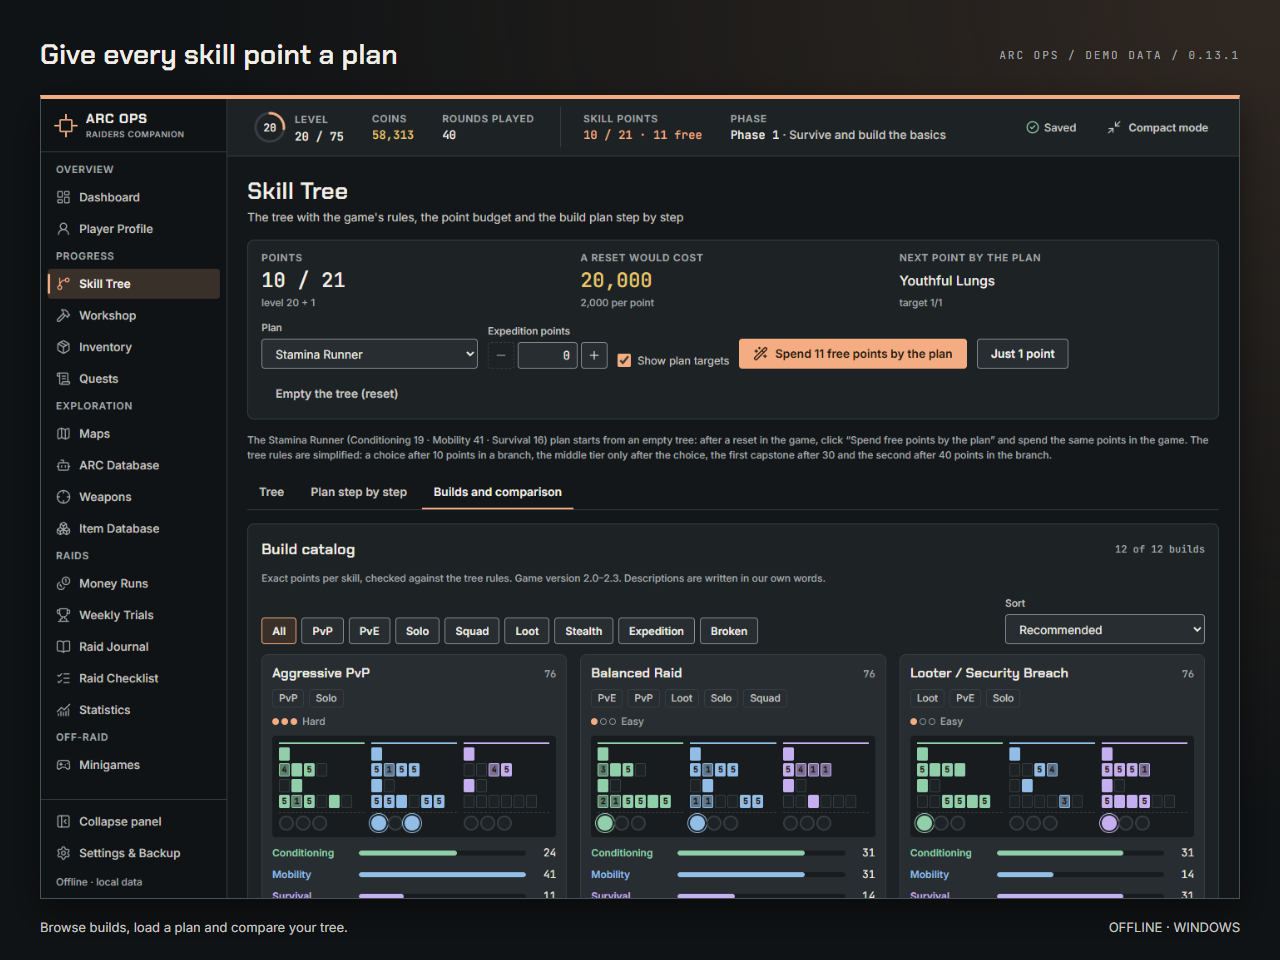
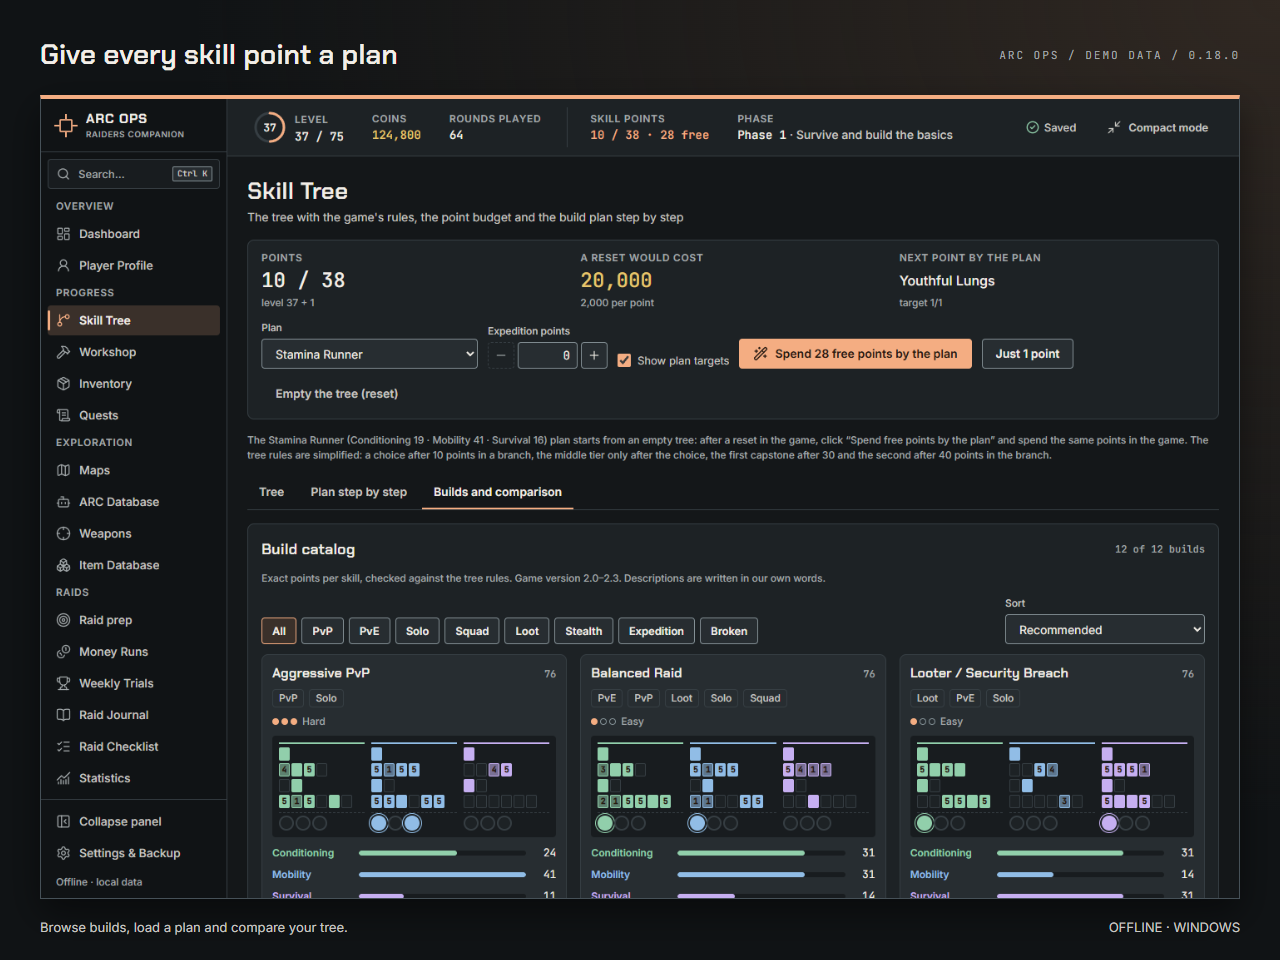
GitHub presentation: screenshots and README for raid prep, map, advisor, search and item card
Fictional demo profile values throughout; the map uses fictional project terrain.

diff --git a/README.md b/README.md
@@ -24,7 +24,7 @@ All views below use **demo data** from the browser build. The desktop app provid
 
 <table>
 <tr>
-<td width="50%"><img src="docs/assets/github/feature-1.png" alt="Plan: stash, workshop and shopping lists"><br><b>Your operations desk</b><br>Profile, priorities, raid records, workshop upgrades and material shopping lists.<br><a href="docs/assets/github/dashboard@2x.png"><img src="docs/assets/github/dashboard.png" alt="Demo dashboard with level 20 profile and upgrade priorities"></a></td>
+<td width="50%"><img src="docs/assets/github/feature-1.png" alt="Plan: stash, workshop and shopping lists"><br><b>Your operations desk</b><br>Profile, priorities, raid records, workshop upgrades and material shopping lists.<br><a href="docs/assets/github/dashboard@2x.png"><img src="docs/assets/github/dashboard.png" alt="Demo dashboard with fictional level 37 profile and What next advisor"></a></td>
 <td width="50%"><img src="docs/assets/github/feature-5.png" alt="Keep close: compact window and optional Ops buddy"><br><b>A smaller window</b><br>Pin quests, see have/need counts and jump to raid logging or stash cleanup.<br><a href="docs/assets/github/compact@2x.png"><img src="docs/assets/github/compact.png" alt="Demo compact window with three pinned quests and Gear Bench shopping list"></a></td>
 </tr>
 <tr>
@@ -39,17 +39,37 @@ All views below use **demo data** from the browser build. The desktop app provid
 
 ### What next?
 
-The Dashboard's **What next?** card ranks your next best actions from your own data, Blitz-style: an upgrade you can build now, a raid to evaluate, a pinned quest ready to hand in, free skill points, unfinished Weekly Trials, a full stash, an old backup or a goal that is due. Each tip says why, opens the right module in one click and can be hidden until its condition changes or snoozed for a day. The top tip also shows in the compact window and the field console, and Ops says it in your chosen personality while you use them, never over the game.
+The Dashboard's **What next?** card ranks your next best actions from your own data: an upgrade you can build now, a raid to evaluate, a pinned quest ready to hand in, free skill points, unfinished Weekly Trials, a full stash, an old backup or a goal that is due. Each tip says why, opens the right module in one click and can be hidden until its condition changes or snoozed for a day. The top tip also shows in the compact window and the field console, and Ops says it in your chosen personality while you use them, never over the game.
+
+| Active plan: goals, materials and map reasons | Interactive map: points and plan highlights |
+|---|---|
+| [![Active plan: goals, materials and map reasons](docs/assets/github/raid-prep.png)](docs/assets/github/raid-prep@2x.png) | [![Interactive map: points and plan highlights](docs/assets/github/interactive-map.png)](docs/assets/github/interactive-map@2x.png) |
+
+The terrain shown here is fictional project artwork, standing in for a player-provided screenshot. It is not a game or community map. You choose the map and loadout.
+
+| Raid tab: finds and item advice | After the raid: found, missing and upgrade ready |
+|---|---|
+| [![Raid tab: finds and item advice](docs/assets/github/overlay-raid.png)](docs/assets/github/overlay-raid@2x.png) | [![After the raid: found, missing and upgrade ready](docs/assets/github/post-raid.png)](docs/assets/github/post-raid@2x.png) |
+
+Plan history stays with entries in the Raid Journal. Statistics show which maps help with your goals; fewer than three planned raids are labelled “little data”.
 
 ### Search everywhere and “Why do I need this?”
 
 Press **Ctrl+K** (or use the sidebar search) to find any item, quest, station, skill, build, map, module, setting or tip, in Czech or English, accents and small typos forgiven. An item opens its card: rarity, value, weight and stack, your stock, where it is needed (quests, stations, projects, your goals, the active raid plan) with what is still missing, what it recycles into and what recycles into it, where to look and which of your map points match, and the keep / recycle / sell verdict with its reason. Item names across the app open the same card, in the main window and in the field console.
+
+| Ctrl+K: grouped search results | Item card: why you need it |
+|---|---|
+| [![Ctrl+K: grouped search results](docs/assets/github/search.png)](docs/assets/github/search@2x.png) | [![Item card: why you need it](docs/assets/github/item-card.png)](docs/assets/github/item-card@2x.png) |
+
+Ctrl+K works while the app or overlay has focus. It is a local window shortcut. The card also shows matching points on your own map; missing catalogue facts stay unknown.
 
 ### Meet Bedňák, callsign Ops
 
 An optional, draggable desktop buddy with level-based outfits, paints, animations and three personalities. Click Ops to open the field console: profile, quests, inventory, workshop, skills, shopping, capture review and the active raid plan. The **App** button opens any full module (skill tree, recipes, item database, maps, journal, statistics, minigames…) in a larger panel over the game; settings and backups stay in the main window. Buddy features start **off** and can be enabled in Settings.
 
 [![Demo field console with Ops and local profile data](docs/assets/github/overlay.png)](docs/assets/github/overlay@2x.png)
+
+[![Full Quests module open inside the overlay](docs/assets/github/overlay-app.png)](docs/assets/github/overlay-app@2x.png)
 
 **Raid prep and your own map.** Pick goals (quests, the next station level, a project or money), get one list of what is still missing with the loot area from the item catalogue, a recommended map with its reasons, and the plan in the console's Raid tab with keep/sell/recycle lookups. The interactive map uses a screenshot of the in-game map that you add yourself; no game maps are bundled. Your points and plan highlights sit on top. After the raid, the plan is compared with what you found (from a confirmed FINDINGS capture or your stock change), shows what is still missing and which upgrades are ready, suggests the next raid and can be saved to the raid journal; statistics then show which maps help with your goals.
 
@@ -67,10 +87,12 @@ For an upgrade, use the newer installer over the existing installation; local da
 ## Your data stays with you
 
 - Works offline with no account login, telemetry or cloud upload. Nothing is sent to a server by the app; external source links open only when you choose them.
-- Screenshots are processed locally. Native hotkey capture stays in memory and is discarded after reading; imported screenshot images are not saved. Map screenshots you add yourself are stored only on this device and go into a backup only if you choose. Learned numeric icon fingerprints and confirmed values may be stored locally.
+- Inventory, loot and progression screenshots are processed locally. Native hotkey capture stays in memory and is discarded after reading; imported screenshot images are not saved. Map screenshots you add yourself are stored only on this device and go into a backup only if you choose. Learned numeric icon fingerprints and confirmed values may be stored locally.
 - No game-memory access, code injection, game-file modification or automated game input. Optional “open with game” checks process names and window visibility/foreground status; it does not open the game process for memory access.
 - Recognition proposes changes; you review and confirm them. Unreadable fields stay unknown. State snapshots and JSON export/restore help you recover from mistakes.
 - Stash advice never sells, recycles or deletes anything in the game.
+
+Security hardening in 0.16.1 added per-window permissions, validated messages between windows and image-size limits. See the [release notes](CHANGELOG.md#0161--security-hardening) for details.
 
 ## FAQ
 

diff --git a/README.cs.md b/README.cs.md
@@ -28,6 +28,18 @@ Všechny obrázky ukazují demo data z prohlížečového sestavení, bez herní
 
 **Příprava na raid a vlastní mapa.** Vybereš cíle (úkoly, další úroveň stanice, projekt, peníze) a dostaneš jeden seznam toho, co chybí, s typem místa z katalogu předmětů, doporučenou mapu s důvody a plán v záložce Raid v konzoli včetně rady nechat / prodat / recyklovat. Interaktivní mapa stojí na snímku herní mapy, který si vložíš sám; aplikace žádné herní mapy nepřibaluje. Nad ním jsou tvoje body a zvýraznění podle plánu. Po raidu se plán porovná s nálezem (z potvrzeného snímku FINDINGS nebo ze změny zásoby): co ještě chybí, která vylepšení jsou připravená, doporučení dalšího raidu a uložení do deníku raidů; statistika pak ukáže, které mapy ti s cíli pomáhají.
 
+| Aktivní plán: cíle, materiály a důvody výběru mapy | Interaktivní mapa: vlastní body a zvýraznění plánu |
+|---|---|
+| [![Aktivní plán: cíle, materiály a důvody výběru mapy](docs/assets/github/raid-prep.png)](docs/assets/github/raid-prep@2x.png) | [![Interaktivní mapa: vlastní body a zvýraznění plánu](docs/assets/github/interactive-map.png)](docs/assets/github/interactive-map@2x.png) |
+
+Podklad na obrázku je smyšlená grafika projektu zastupující hráčův vlastní snímek. Nejde o herní ani komunitní mapu. Mapu a loadout si vybíráš sám.
+
+| Záložka Raid: nálezy a rady k předmětům | Po raidu: nalezeno, chybí a připravené vylepšení |
+|---|---|
+| [![Záložka Raid: nálezy a rady k předmětům](docs/assets/github/overlay-raid.png)](docs/assets/github/overlay-raid@2x.png) | [![Po raidu: nalezeno, chybí a připravené vylepšení](docs/assets/github/post-raid.png)](docs/assets/github/post-raid@2x.png) |
+
+Historie plánů patří k záznamům v deníku raidů. Statistika ukazuje, které mapy pomáhají s cíli; méně než tři plánované raidy označí jako „málo dat“.
+
 ### Co dál?
 
 Karta **Co dál?** na Dashboardu seřadí další nejlepší kroky z tvých dat: vylepšení, které jde postavit, raid k vyhodnocení, připnutý úkol připravený k odevzdání, volné skill body, nedokončené Weekly Trials, plnou bednu, starou zálohu nebo cíl s blížícím se termínem. Každý tip říká proč, jedním klikem otevře správný modul a jde skrýt, dokud se jeho podmínka nezmění, nebo odložit o den. Nejdůležitější tip je i v kompaktním okně a v polní konzoli a Ops ho řekne ve zvolené povaze, když s nimi pracuješ, nikdy nad hrou.
@@ -36,11 +48,19 @@ Karta **Co dál?** na Dashboardu seřadí další nejlepší kroky z tvých dat:
 
 **Ctrl+K** (nebo pole v postranním panelu) najde předmět, úkol, stanici, skill, build, mapu, modul, sekci nastavení nebo tip, česky i anglicky, bez ohledu na diakritiku a drobné překlepy. Předmět otevře svou kartu: vzácnost, hodnotu, hmotnost a stack, tvoji zásobu, kde je potřeba (úkoly, stanice, projekty, tvoje cíle, aktivní plán raidu) a kolik ještě chybí, co z něj recyklací vznikne a z čeho vzniká on, kde ho hledat a které tvoje body na mapě sedí, a radu nechat / recyklovat / prodat i s důvodem. Stejnou kartu otevřou názvy předmětů v celé aplikaci, v hlavním okně i v polní konzoli.
 
+| Ctrl+K: výsledky ve skupinách | Karta předmětu: proč ho potřebuješ |
+|---|---|
+| [![Ctrl+K: výsledky ve skupinách](docs/assets/github/search.png)](docs/assets/github/search@2x.png) | [![Karta předmětu: proč ho potřebuješ](docs/assets/github/item-card.png)](docs/assets/github/item-card@2x.png) |
+
+Ctrl+K funguje při fokusu aplikace nebo konzole; je to zkratka daného okna. Karta ukazuje i odpovídající vlastní body na mapě. Chybějící údaje katalogu zůstávají neznámé.
+
 ### Bedňák / Ops
 
 Volitelný pixelový buddy s podobami podle levelu, animacemi, nátěry a třemi povahami. Kliknutím otevřeš konzoli s profilem, úkoly, zásobou, dílnou, skilly, nákupy a revizí snímku a aktivním plánem raidu. Tlačítko **Aplikace** otevře nad hrou ve větším panelu kterýkoli plný modul (skill tree, recepty, databázi předmětů, mapy, deník, statistiky, minihry…); nastavení a zálohy zůstávají v hlavním okně. Výchozí stav buddyho je **vypnuto**.
 
 ![Demo polní konzole s Opsem](docs/assets/github/overlay.png)
+
+[![Plný modul úkolů otevřený v konzoli](docs/assets/github/overlay-app.png)](docs/assets/github/overlay-app@2x.png)
 
 Navíc: rady pro úklid stashe, recyklace, blueprinty, porovnání zbraní, vlastní tier list, deník raidů, statistiky, checklisty a export/obnova JSON záloh. Herní data mohou za aktualizacemi zaostávat.
 
@@ -55,9 +75,11 @@ Novou verzi instaluj přes stávající instalaci; data zůstanou. Před aktuali
 
 ## Soukromí a bezpečnost
 
-Vše funguje offline, bez přihlášení, telemetrie a odesílání na server. Externí odkazy se otevírají na přání. Snímky se zpracují lokálně a neukládají se jako obrázky; nativní snímek zkratkou zůstává jen v paměti. Výjimkou jsou snímky map, které si vložíš sám: zůstávají jen v tomto zařízení a do zálohy jdou jen na tvou volbu. Uložit se mohou potvrzené údaje a číselné otisky ikon.
+Vše funguje offline, bez přihlášení, telemetrie a odesílání na server. Externí odkazy se otevírají na přání. Snímky zásoby, lootu a postupu se zpracují lokálně a neukládají se jako obrázky; nativní snímek zkratkou zůstává jen v paměti. Výjimkou jsou snímky map, které si vložíš sám: zůstávají jen v tomto zařízení a do zálohy jdou jen na tvou volbu. Uložit se mohou potvrzené údaje a číselné otisky ikon.
 
 Aplikace nečte paměť hry, nevkládá do ní kód, neupravuje herní soubory a neposílá vstup. Volitelné otevření s hrou sleduje název procesu a stav okna včetně popředí. Změny ze snímků potvrzuje hráč, před zápisem vzniká snímek stavu. Rady nikdy samy nic neprodávají ani nemažou ve hře.
+
+Verze 0.16.1 zpřísnila oprávnění jednotlivých oken, ověřování zpráv mezi okny a limity velikosti obrázků. Podrobnosti jsou v [historii verzí](CHANGELOG.md#0161--security-hardening).
 
 ## Časté otázky
 

diff --git a/docs/assets/github/README.md b/docs/assets/github/README.md
@@ -1,12 +1,12 @@
 # GitHub presentation assets
 
-These assets accompany the English and Czech project READMEs for version 0.13.1.
+These assets accompany the English and Czech project READMEs for version 0.18.0.
 
 - `hero-dark.png` and `hero-light.png`: README banners selected by the reader's colour scheme.
 - `social-preview.png`: 1280 × 640 image prepared for the repository's social preview setting. Adding this file to Git does not configure that setting.
 - App captures and feature tiles: framed browser-build views. `@2x` variants provide larger detail views.
 
-Ops / Bedňák artwork belongs to this project. The captures use a seeded browser demo profile; its level, XP and coin values were taken from existing test fixtures. They are not captures of the owner's live desktop or game. The import review uses a synthetic recognition result and demonstrates the review UI, not recognition accuracy. No game screenshots or Embark logos are included.
+Ops / Bedňák artwork belongs to this project. The captures use a seeded browser demo profile; its level 37, XP 8400/46000 and 124800 coins are fictional presentation values. They are not captures of the owner's live desktop or game. The import review uses a synthetic recognition result and demonstrates the review UI, not recognition accuracy. The interactive map uses only fictional project terrain from `docs/design/maps/assets/fictional-terrain.svg`. No game screenshots, community maps or Embark logos are included.
 
 Native window appearance, game interaction and Windows foreground behaviour are not demonstrated by these browser captures. The source design package is kept locally in `docs/design/github/`; only the final PNGs are needed for the published READMEs.
 
@@ -14,10 +14,10 @@ Native window appearance, game interaction and Windows foreground behaviour are 
 
 Description:
 
-> Offline Windows companion for ARC Raiders: stash and upgrade planning, quest objectives, skill builds, local screenshot review and the Ops desktop buddy. Czech + English. Unofficial fan project; not affiliated with or endorsed by Embark Studios.
+> Offline Windows companion for ARC Raiders: raid plans, your own interactive maps, post-raid evaluation, next-step advice, Ctrl+K search and item cards. Stash, quests, builds and full modules in the Ops overlay. Czech + English. Unofficial; not affiliated with or endorsed by Embark Studios.
 
 Topics:
 
-`arc-raiders`, `companion-app`, `offline-first`, `windows`, `tauri`, `tauri-v2`, `react`, `typescript`, `inventory-management`, `quest-tracker`, `skill-tree`, `open-source`, `czech`, `pixel-art`
+`arc-raiders`, `companion-app`, `offline-first`, `windows`, `tauri`, `tauri-v2`, `react`, `typescript`, `inventory-management`, `quest-tracker`, `skill-tree`, `open-source`, `czech`, `pixel-art`, `raid-planner`, `interactive-map`, `command-palette`
 
 Repository description, topics and social preview are account settings and must be applied separately from these files.
